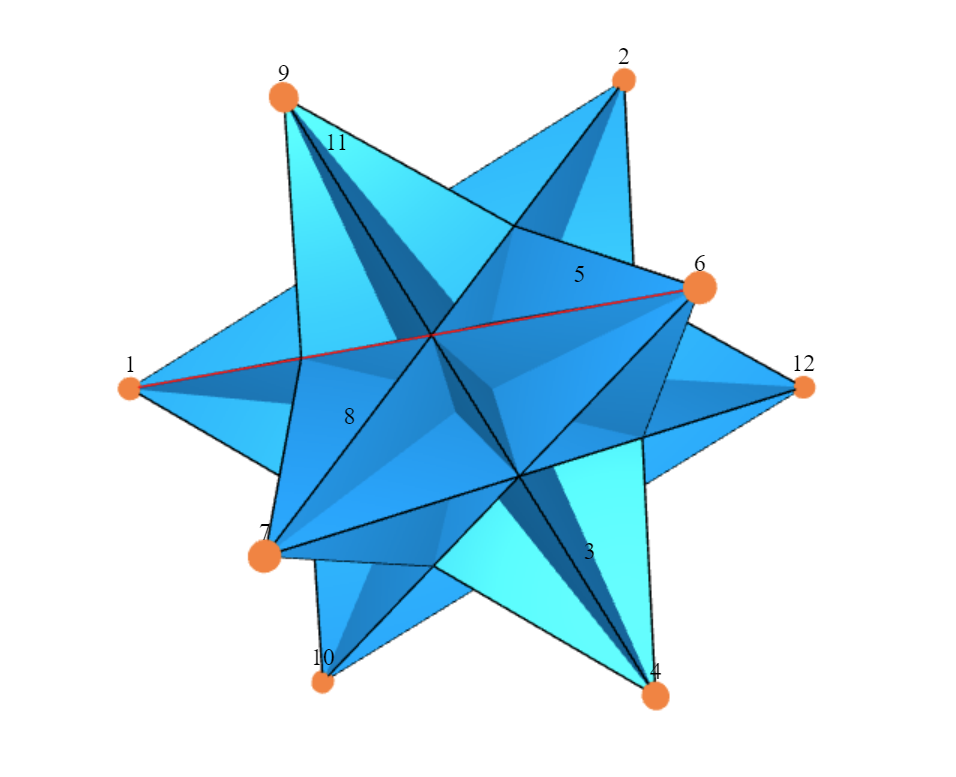
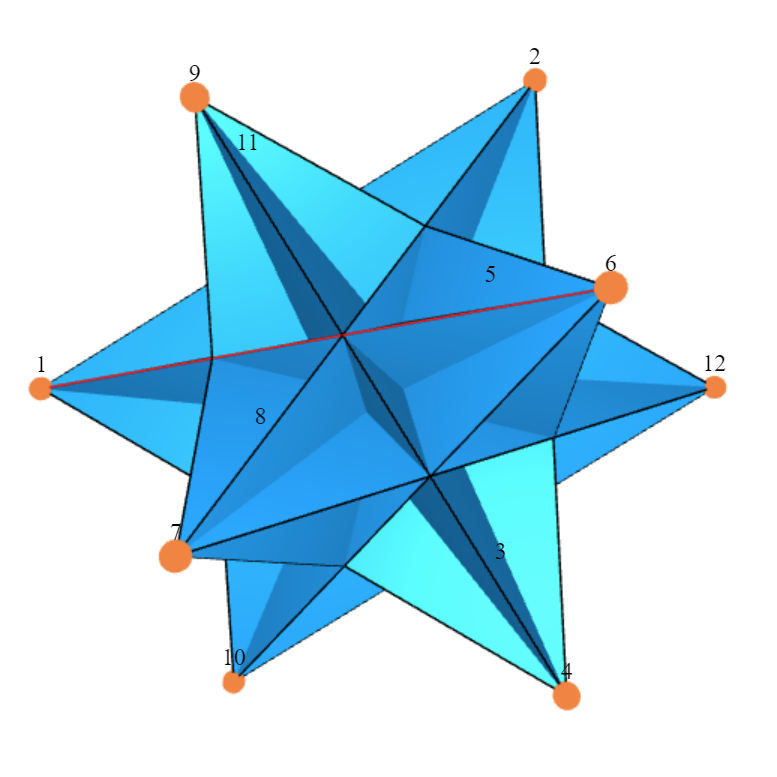
update website with new projects and attendances

diff --git a/_sass/_custom.scss b/_sass/_custom.scss
@@ -1,40 +1,1 @@
-/* Custom styles for the profile picture */
-
-/* On mobile devices, make the profile picture smaller */
-@media (max-width: 768px) {
-  /*
-   * On mobile, stop floating the profile section and align it to the left.
-  */
-  .profile {
-    float: none !important;
-    margin: 2rem 0; /* Remove auto horizontal margins */
-    text-align: left; /* Align the image to the left */
-  }
-
-  .profile img {
-    max-width: 10rem; /* Adjust size as you like. The theme default is 15rem. */
-  }
-
-  /* Publications preview image on mobile.
-     We override Bootstrap's flexbox grid and use a simple float
-     for a more robust layout on small screens. */
-  .publications .row {
-    display: block; /* Disable flexbox for this row */
-    margin-bottom: 1.5rem;
-  }
-  .publications .row::after {
-    content: "";
-    clear: both;
-    display: table;
-  }
-
-  .publications .preview {
-    float: left;
-    width: 5rem;
-    margin-right: 1rem; /* Space between image and text */
-  }
-  .publications .preview img {
-    width: 100%; /* Make image fill its container */
-    height: auto; /* Maintain aspect ratio */
-  }
-}
+// Custom SCSS styles

diff --git a/_includes/header.html b/_includes/header.html
@@ -5,7 +5,7 @@
       <nav id="navbar" class="navbar navbar-light navbar-expand-sm {% if site.navbar_fixed %}fixed-top{% else %}sticky-top{% endif %}">
         <div class="container">
           {% if page.permalink != '/' -%}
-          <a class="navbar-brand title font-weight-lighter" href="{{ site.baseurl }}/">
+            <a class="navbar-brand title font-weight-lighter" href="{{ "/" | relative_url }}">
             {%- if site.title == "blank" -%}
               {%- if site.first_name -%}
                 <span class="font-weight-bold">{{- site.first_name -}}&nbsp;</span>

diff --git a/_projects/4_project.md b/_projects/4_project.md
@@ -1,0 +1,12 @@
+---
+layout: page
+title: SFB-TRR 280
+description: DFG Collaborative Research Centre
+img: assets/img/logo_SFB.svg
+importance: 1
+category: work
+---
+
+Specifically, I am working in [Subproject A04](https://www.sfbtrr280.de/en/research/project-area-a/subproject-a04/), where we focus on the mathematical and geometric foundations for topological interlocking and material-minimized construction. 
+
+Previously, I worked on a seedfund project related to Simplicial Surfaces within the SFB. I continue my collaboration with the researchers from that project to apply our algebraic and geometric insights to structural engineering.

diff --git a/_projects/5_project.md b/_projects/5_project.md
@@ -1,0 +1,12 @@
+---
+layout: page
+title: SFB/TRR 188
+description: DFG Collaborative Research Centre
+img: assets/img/logo_TRR188.png
+importance: 1
+category: work
+---
+
+As part of my position at the Institute of Structural Mechanics and Lightweight Design (SLA), I am involved in the [DFG Collaborative Research Centre / Transregio 188 (SFB/TRR 188)](https://trr188.de/index.php/en/) – Damage Controlled Forming Processes.
+
+Specifically, I am working in Subproject A09, which focuses on damage mechanics-based process design for the damage-controlled forming of hybrid components.

diff --git a/_projects/6_project.md b/_projects/6_project.md
@@ -1,0 +1,12 @@
+---
+layout: page
+title: CrystFundDom
+description: GAP Package
+img: assets/img/fund-dom.png
+importance: 1
+category: opensource
+---
+
+CrystFundDom is a package for GAP used for computing with fundamental domains of crystallographic groups. I have contributed to this package as part of my work with the algebra and representation theory group at RWTH Aachen University.
+
+<a href="https://github.com/GAP-ART-RWTH/CrystFundDom">github.com/GAP-ART-RWTH/CrystFundDom</a>

diff --git a/_projects/1_project.md b/_projects/1_project.md
@@ -4,7 +4,7 @@ title: Simplicial Surfaces
 description: GAP Package
 img: assets/img/ico-2_1.png
 importance: 1
-category: work
+category: opensource
 ---
 
 Simplicial Surfaces Package for GAP. I rewrote some of the functionality as part of the "Fachpraktikum/Practical Training Algebra". I will continue to work on it as part of a student assistant position at the Chair of algebra and representation theory, starting in April 2023.

diff --git a/_projects/3_project.md b/_projects/3_project.md
@@ -4,7 +4,7 @@ title: GAPic
 description: GAP Package
 img: assets/img/ico-color.png
 importance: 1
-category: work
+category: opensource
 ---
 
 GAPic is a Package for GAP. After the work in the SimplicialSurfaces package we decided to create a new one to incorporate several new functionalities. I was one of the co-creators and develope it further.

diff --git a/_pages/projects.md b/_pages/projects.md
@@ -2,10 +2,10 @@
 layout: page
 title: Projects
 permalink: /projects/
-description: Projects I am or was working on
+description: 
 nav: true
 nav_order: 2
-display_categories: [work, fun]
+display_categories: [work, opensource]
 horizontal: false
 ---
 
